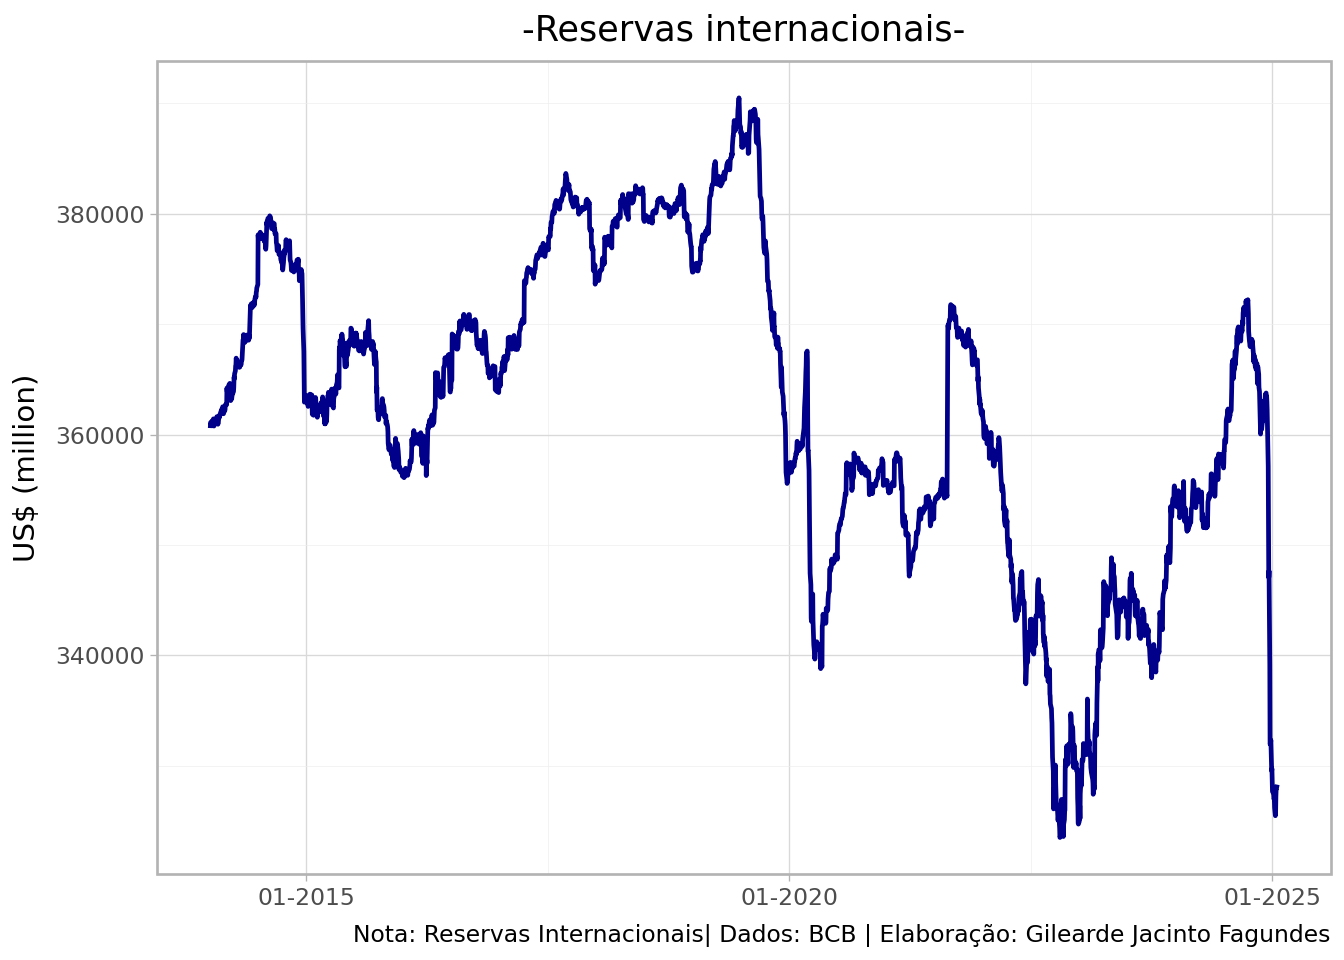
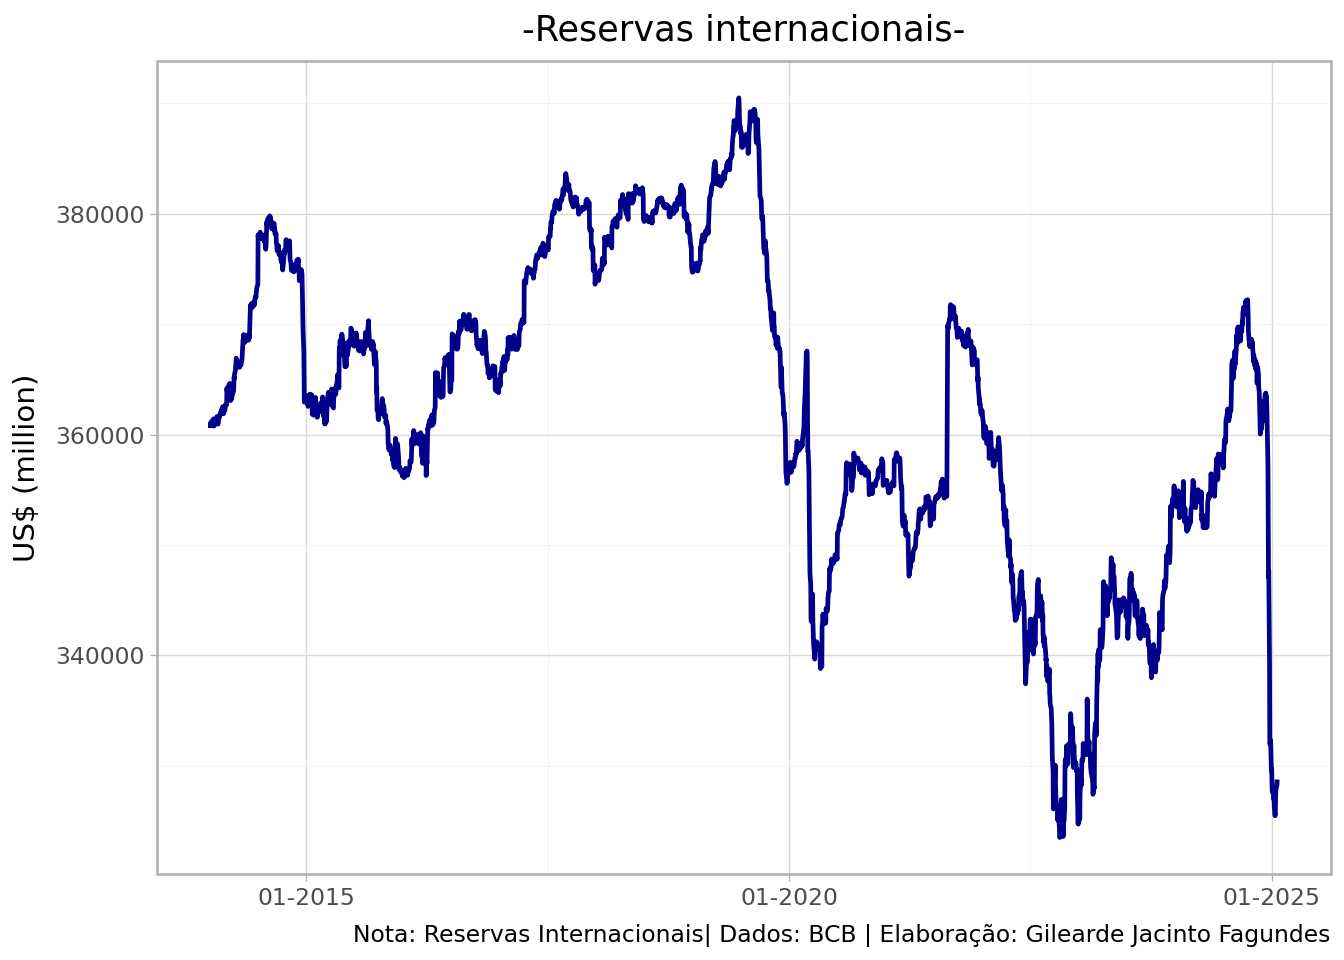
Atualização de relatorio e dashboard

diff --git a/relatorio/relatorio.html b/relatorio/relatorio.html
@@ -107,14 +107,14 @@ pre > code.sourceCode > span > a:first-child::before { text-decoration: underlin
 
 
 <p>Dados coletados da API do Banco Central do Brasil.</p>
-<div id="13de6877" class="cell" data-execution_count="1">
+<div id="7cddd496" class="cell" data-execution_count="1">
 <div class="sourceCode cell-code" id="cb1"><pre class="sourceCode python code-with-copy"><code class="sourceCode python"><span id="cb1-1"><a href="#cb1-1" aria-hidden="true" tabindex="-1"></a><span class="co"># Import Librarys</span></span>
 <span id="cb1-2"><a href="#cb1-2" aria-hidden="true" tabindex="-1"></a><span class="im">from</span> bcb <span class="im">import</span> sgs</span>
 <span id="cb1-3"><a href="#cb1-3" aria-hidden="true" tabindex="-1"></a><span class="im">import</span> pandas <span class="im">as</span> pd</span>
 <span id="cb1-4"><a href="#cb1-4" aria-hidden="true" tabindex="-1"></a><span class="im">import</span> plotnine <span class="im">as</span> p9</span></code><button title="Copy to Clipboard" class="code-copy-button"><i class="bi"></i></button></pre></div>
 </div>
 <p>Utilização da library SGS/BCB:</p>
-<div id="c7f91d7b" class="cell" data-execution_count="2">
+<div id="7bc913f8" class="cell" data-execution_count="2">
 <div class="sourceCode cell-code" id="cb2"><pre class="sourceCode python code-with-copy"><code class="sourceCode python"><span id="cb2-1"><a href="#cb2-1" aria-hidden="true" tabindex="-1"></a><span class="co"># Collect data</span></span>
 <span id="cb2-2"><a href="#cb2-2" aria-hidden="true" tabindex="-1"></a>dados <span class="op">=</span> sgs.get(</span>
 <span id="cb2-3"><a href="#cb2-3" aria-hidden="true" tabindex="-1"></a>    codes<span class="op">=</span>{<span class="st">"reserva"</span>: <span class="dv">13621</span>},</span>
@@ -123,7 +123,7 @@ pre > code.sourceCode > span > a:first-child::before { text-decoration: underlin
 <span id="cb2-6"><a href="#cb2-6" aria-hidden="true" tabindex="-1"></a>)</span></code><button title="Copy to Clipboard" class="code-copy-button"><i class="bi"></i></button></pre></div>
 </div>
 <p>Os dados brutos obtidos no SGS/BCB são exibidos abaixo:</p>
-<div id="6f643e3a" class="cell" data-execution_count="3">
+<div id="4033616b" class="cell" data-execution_count="3">
 <div class="sourceCode cell-code" id="cb3"><pre class="sourceCode python code-with-copy"><code class="sourceCode python"><span id="cb3-1"><a href="#cb3-1" aria-hidden="true" tabindex="-1"></a>dados</span></code><button title="Copy to Clipboard" class="code-copy-button"><i class="bi"></i></button></pre></div>
 <div class="cell-output cell-output-display" data-execution_count="3">
 <div>
@@ -166,37 +166,37 @@ pre > code.sourceCode > span > a:first-child::before { text-decoration: underlin
 <td>...</td>
 </tr>
 <tr class="odd">
-<td data-quarto-table-cell-role="th">2025-01-14</td>
-<td>325819</td>
-</tr>
-<tr class="even">
 <td data-quarto-table-cell-role="th">2025-01-15</td>
 <td>327213</td>
 </tr>
-<tr class="odd">
+<tr class="even">
 <td data-quarto-table-cell-role="th">2025-01-16</td>
 <td>327911</td>
 </tr>
-<tr class="even">
+<tr class="odd">
 <td data-quarto-table-cell-role="th">2025-01-17</td>
 <td>327915</td>
 </tr>
-<tr class="odd">
+<tr class="even">
 <td data-quarto-table-cell-role="th">2025-01-20</td>
 <td>328276</td>
+</tr>
+<tr class="odd">
+<td data-quarto-table-cell-role="th">2025-01-21</td>
+<td>328740</td>
 </tr>
 </tbody>
 </table>
 
-<p>2774 rows × 1 columns</p>
+<p>2775 rows × 1 columns</p>
 </div>
 </div>
 </div>
 <p>Valores e datas da maxima e minima das Reservas Internacionais Totais:</p>
-<div id="30bec3be" class="cell" data-execution_count="4">
+<div id="c43ea7c5" class="cell" data-execution_count="4">
 <div class="sourceCode cell-code" id="cb4"><pre class="sourceCode python code-with-copy"><code class="sourceCode python"><span id="cb4-1"><a href="#cb4-1" aria-hidden="true" tabindex="-1"></a>dados <span class="op">=</span> dados.assign(data <span class="op">=</span> dados.index)</span></code><button title="Copy to Clipboard" class="code-copy-button"><i class="bi"></i></button></pre></div>
 </div>
-<div id="6fd1e7f2" class="cell" data-execution_count="5">
+<div id="a252839d" class="cell" data-execution_count="5">
 <div class="sourceCode cell-code" id="cb5"><pre class="sourceCode python code-with-copy"><code class="sourceCode python"><span id="cb5-1"><a href="#cb5-1" aria-hidden="true" tabindex="-1"></a>menor_valor <span class="op">=</span> dados.reserva.<span class="bu">min</span>() </span>
 <span id="cb5-2"><a href="#cb5-2" aria-hidden="true" tabindex="-1"></a>data_menor_valor <span class="op">=</span> dados.reserva.idxmin().date()</span>
 <span id="cb5-3"><a href="#cb5-3" aria-hidden="true" tabindex="-1"></a>maior_valor<span class="op">=</span>dados.reserva.<span class="bu">max</span>()</span>
@@ -208,7 +208,7 @@ pre > code.sourceCode > span > a:first-child::before { text-decoration: underlin
 </div>
 </div>
 <p>Gráfico de linha com a série das Reservas Internacionais Totais:</p>
-<div id="9b35839c" class="cell" data-execution_count="6">
+<div id="c1fdf430" class="cell" data-execution_count="6">
 <div class="sourceCode cell-code" id="cb7"><pre class="sourceCode python code-with-copy"><code class="sourceCode python"><span id="cb7-1"><a href="#cb7-1" aria-hidden="true" tabindex="-1"></a><span class="co"># Line Graph</span></span>
 <span id="cb7-2"><a href="#cb7-2" aria-hidden="true" tabindex="-1"></a>chart<span class="op">=</span>p9.ggplot(data <span class="op">=</span> dados) <span class="op">+\</span></span>
 <span id="cb7-3"><a href="#cb7-3" aria-hidden="true" tabindex="-1"></a>  p9.aes(x <span class="op">=</span> <span class="st">"data"</span>, y <span class="op">=</span> <span class="st">"reserva"</span>) <span class="op">+\</span></span>
@@ -222,7 +222,7 @@ pre > code.sourceCode > span > a:first-child::before { text-decoration: underlin
 <span id="cb7-11"><a href="#cb7-11" aria-hidden="true" tabindex="-1"></a>    ) <span class="op">+\</span></span>
 <span id="cb7-12"><a href="#cb7-12" aria-hidden="true" tabindex="-1"></a>  p9.theme_light()</span></code><button title="Copy to Clipboard" class="code-copy-button"><i class="bi"></i></button></pre></div>
 </div>
-<div id="560cbf84" class="cell" data-execution_count="7">
+<div id="202ec5e1" class="cell" data-execution_count="7">
 <div class="sourceCode cell-code" id="cb8"><pre class="sourceCode python code-with-copy"><code class="sourceCode python"><span id="cb8-1"><a href="#cb8-1" aria-hidden="true" tabindex="-1"></a>chart</span></code><button title="Copy to Clipboard" class="code-copy-button"><i class="bi"></i></button></pre></div>
 <div class="cell-output cell-output-display">
 <div>
